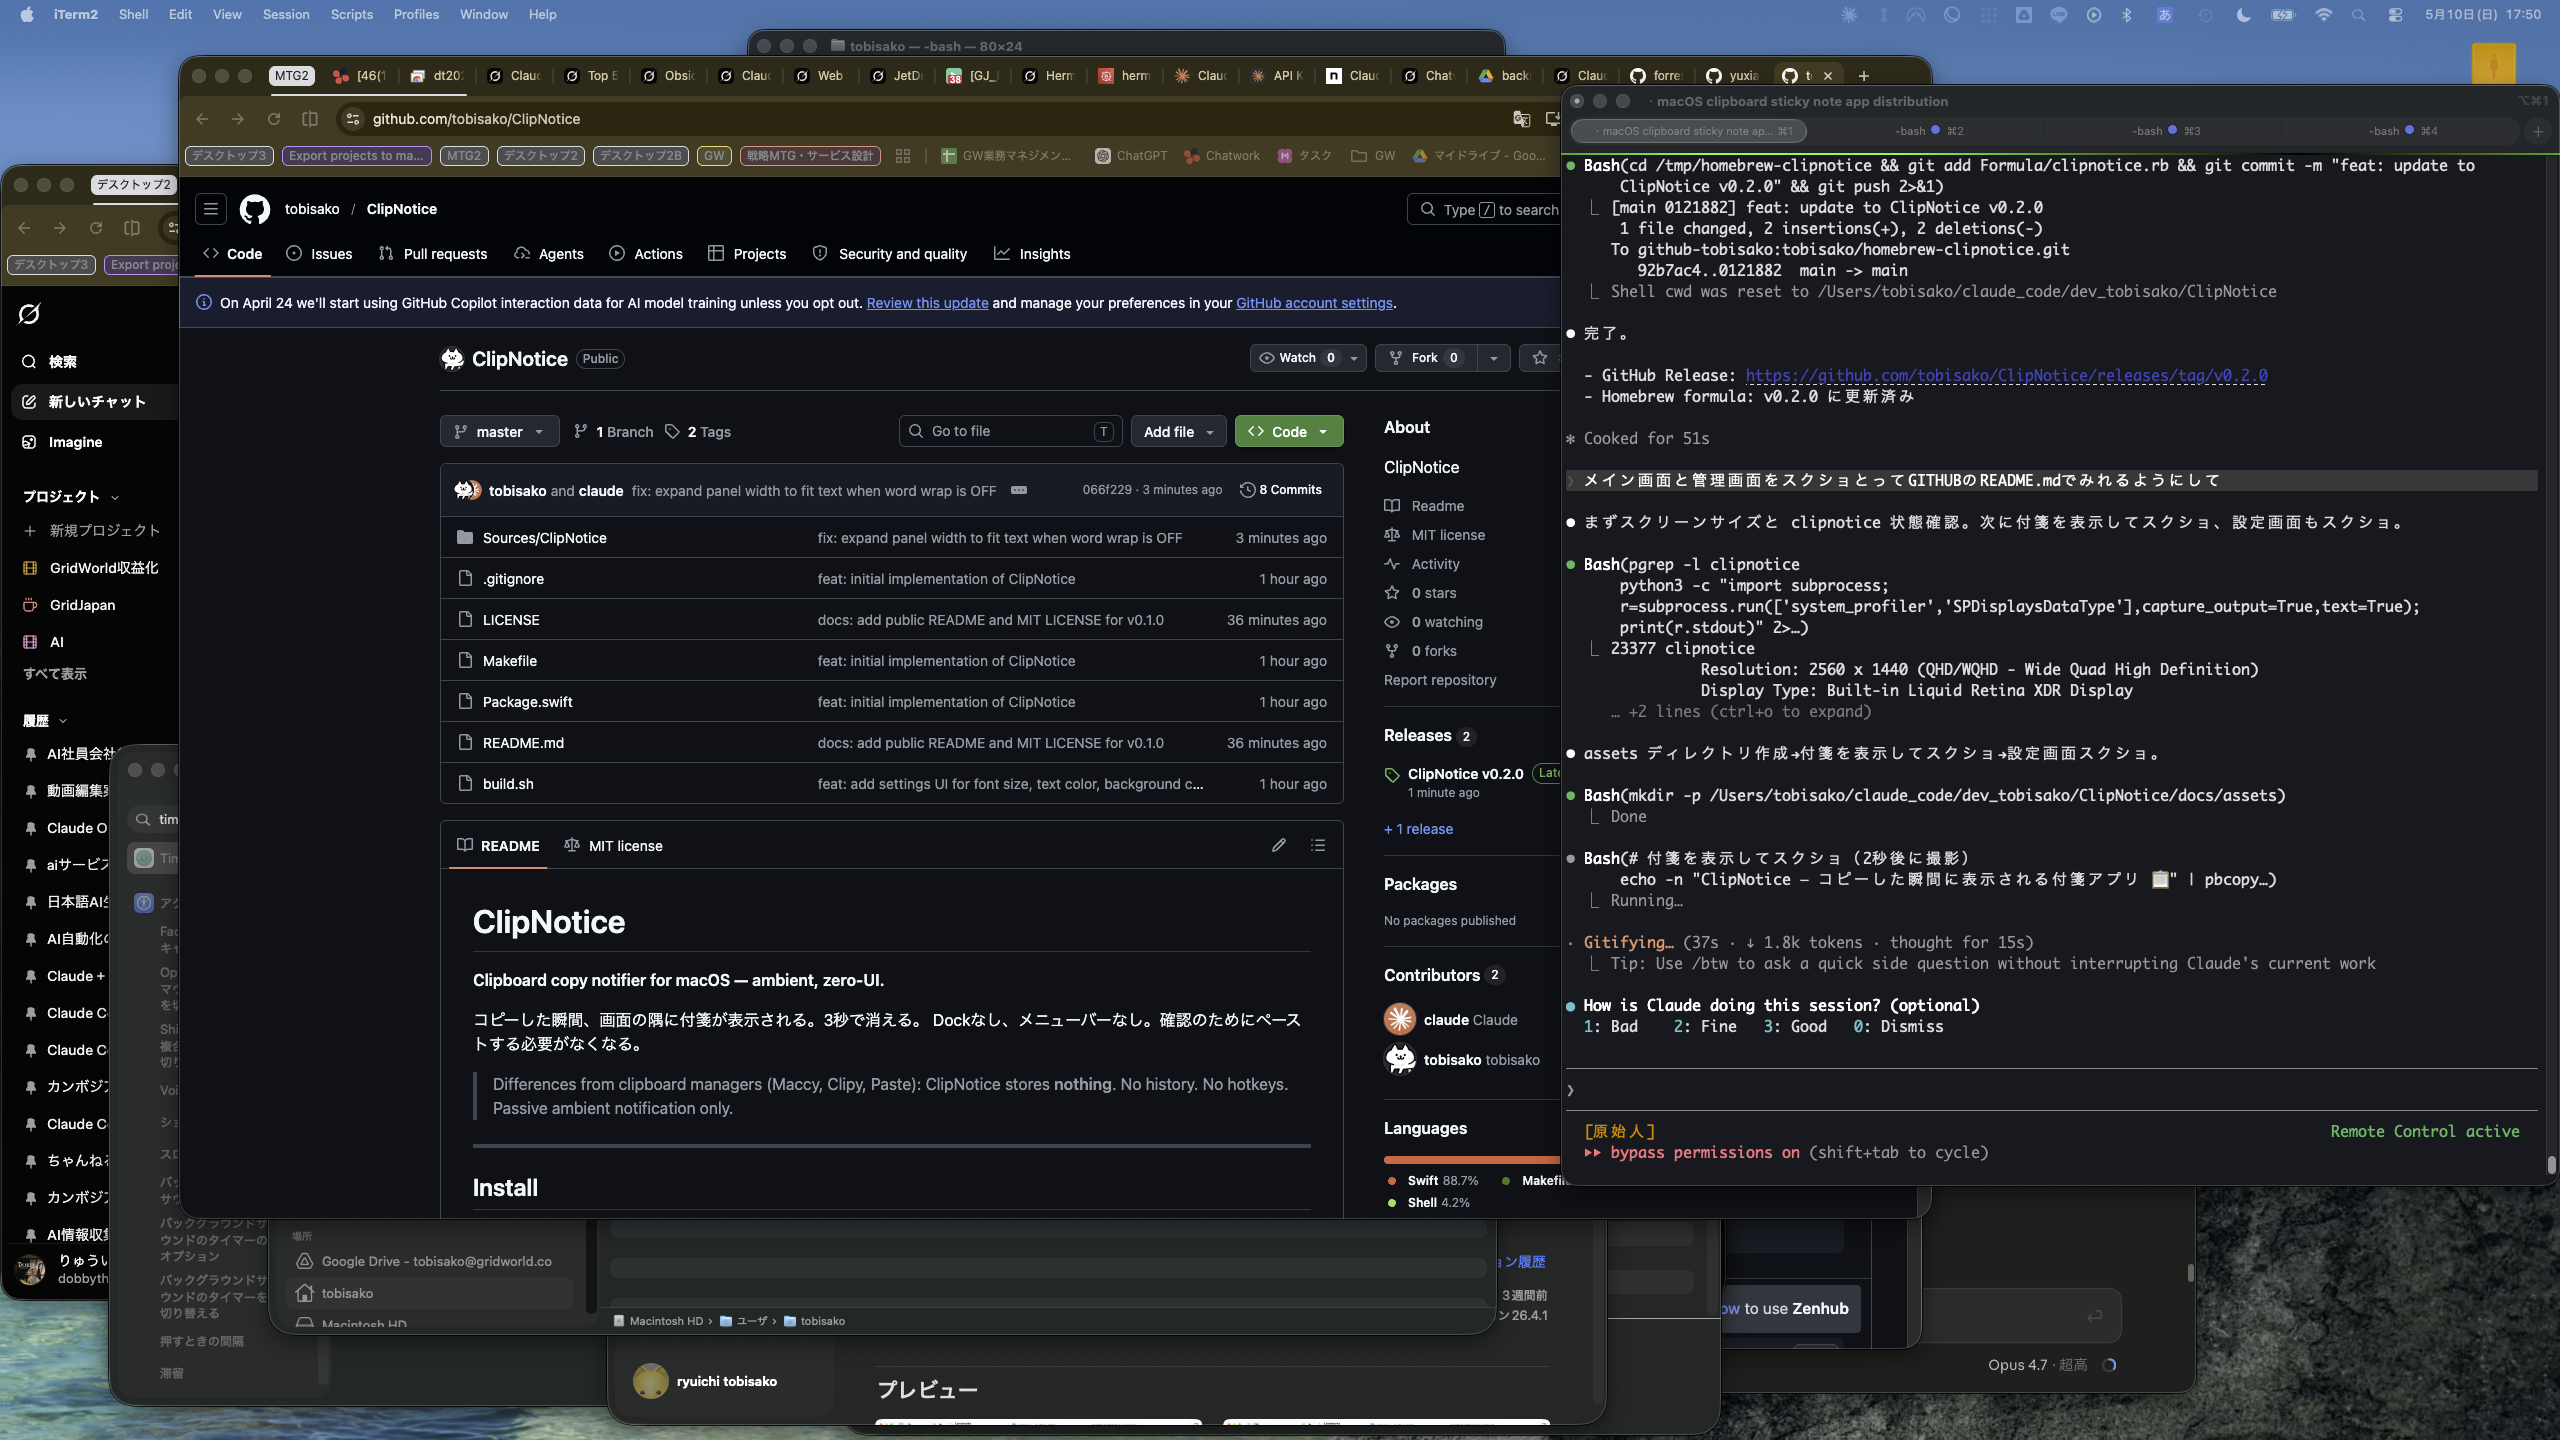
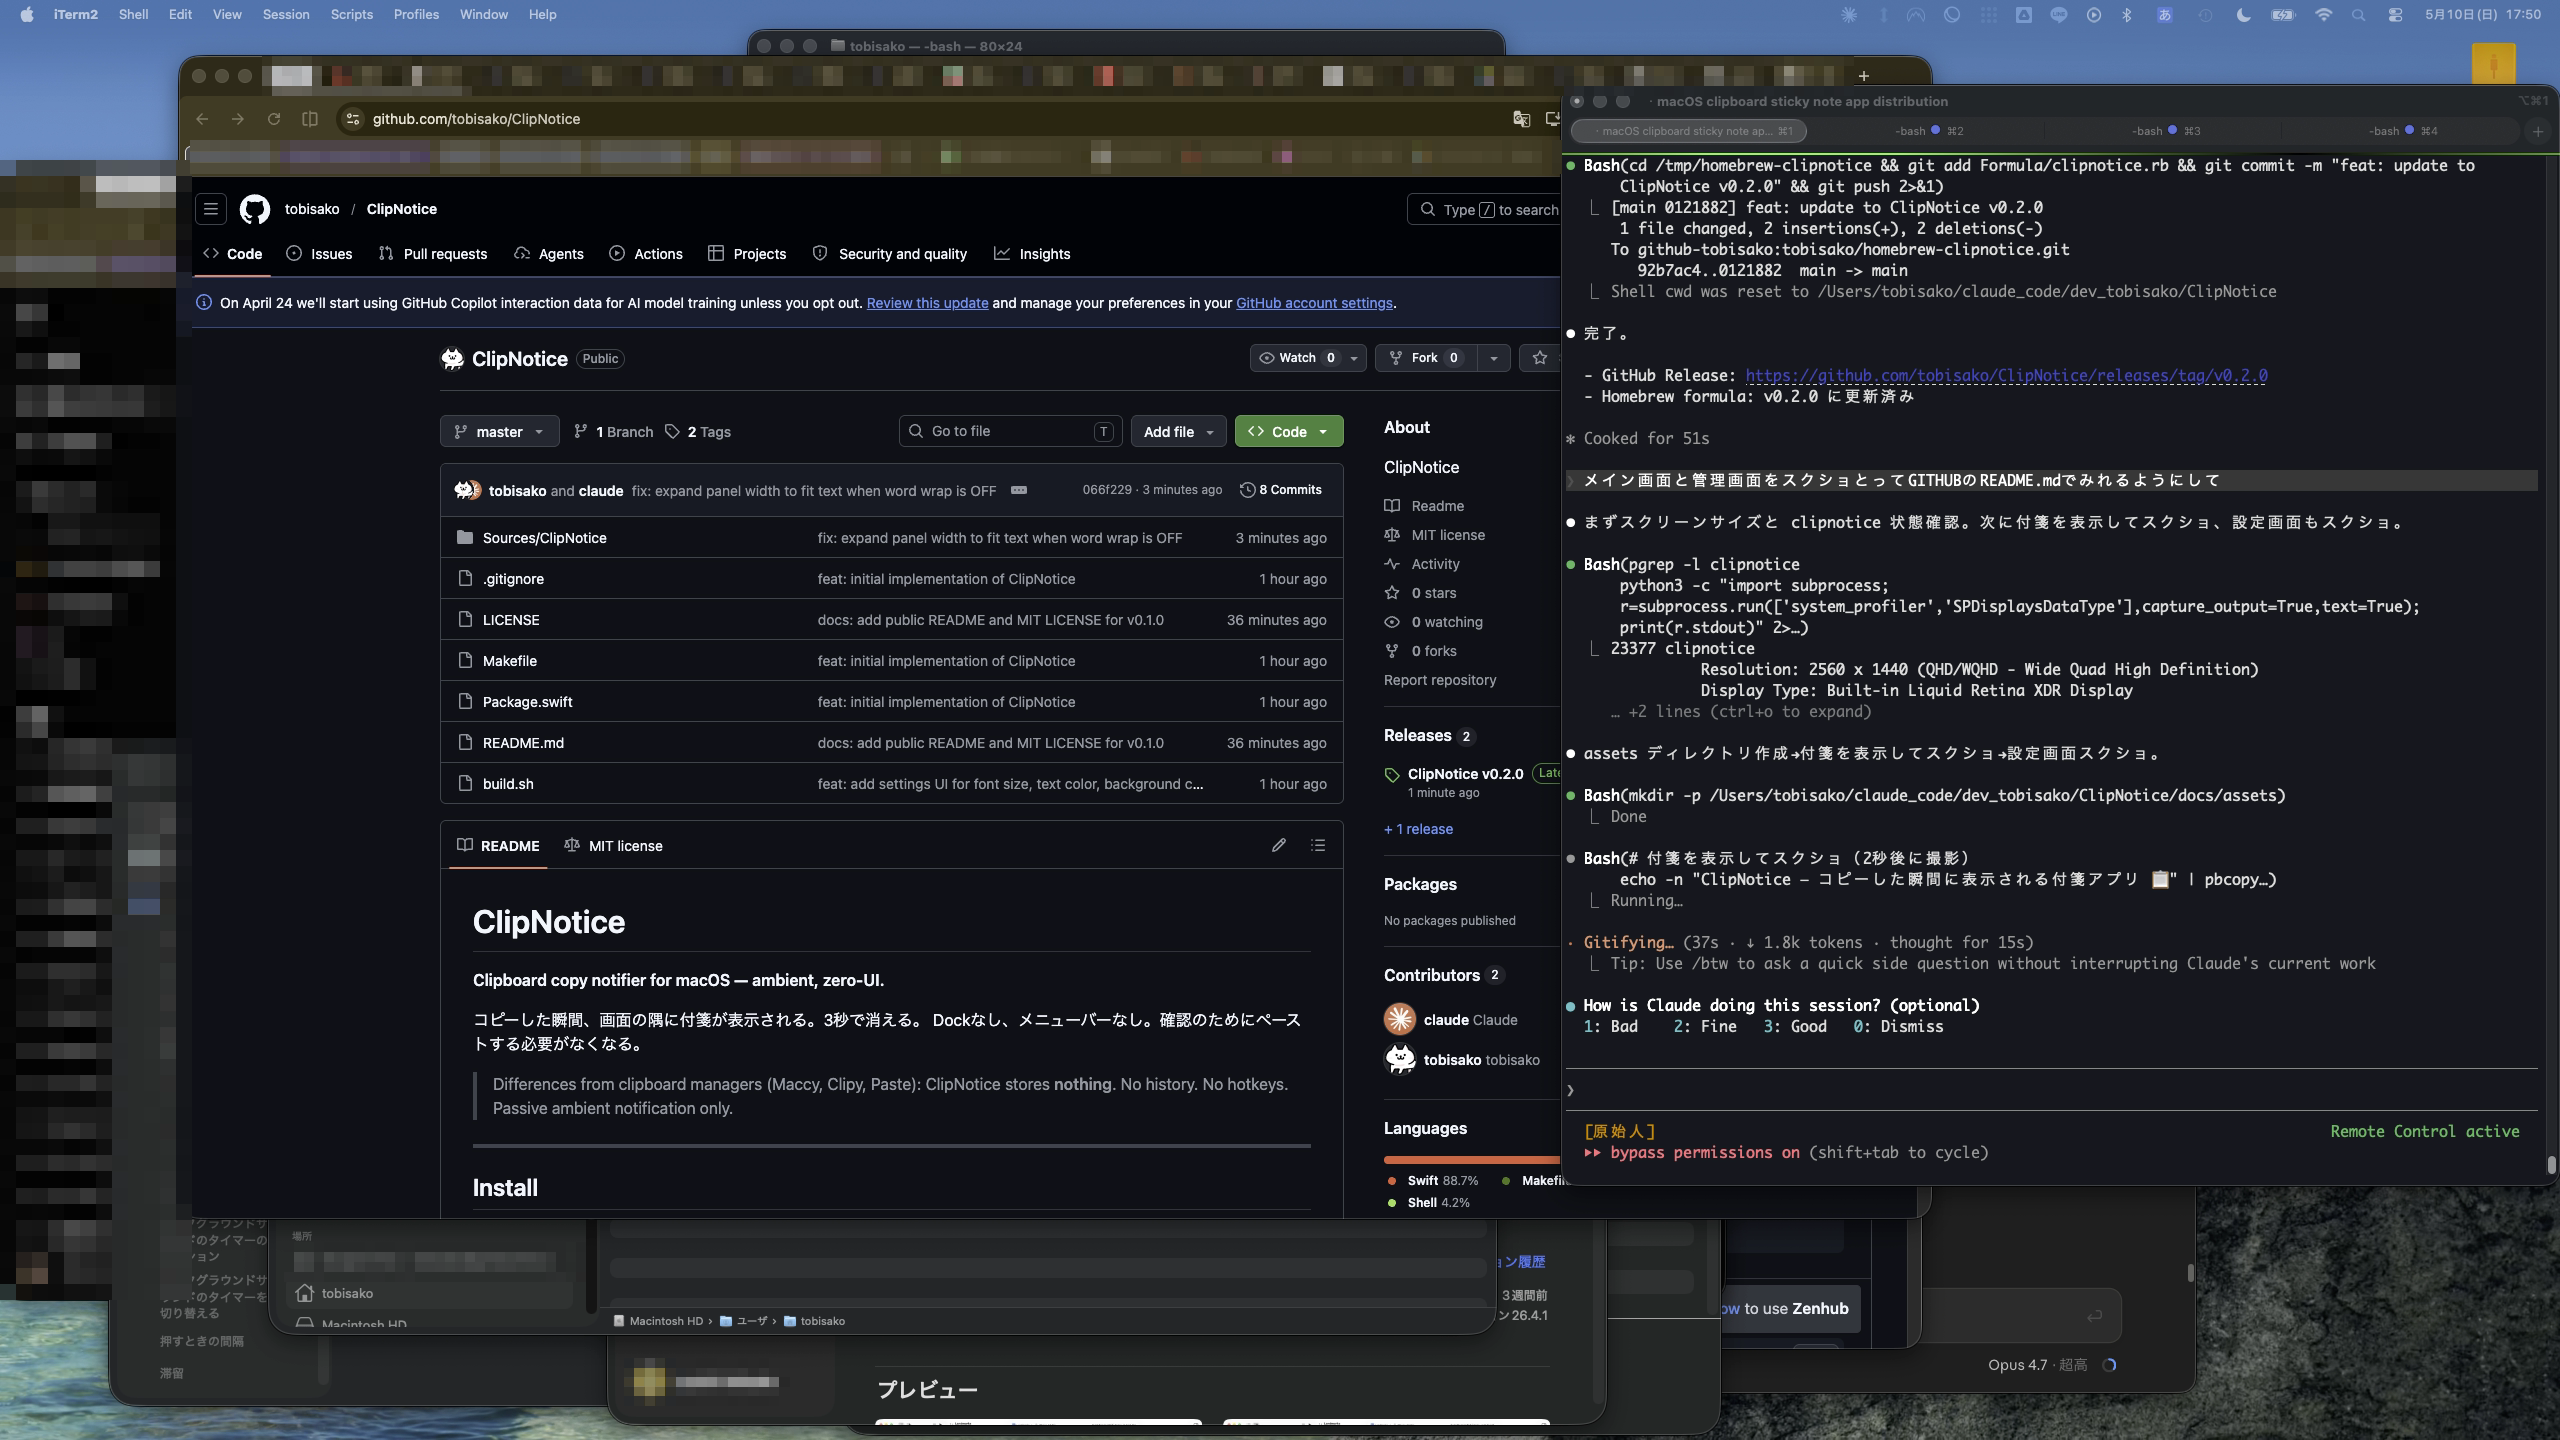
fix: sticky-note.png の写り込みをモザイク処理
デスクトップ全画面のスクショに社内情報が写り込んでいたため、該当箇所のみ
モザイクをかけた（README で参照されているため削除ではなく差し替え）。

処理した箇所:
- 左サイドバー: Claude のプロジェクト名・チャット履歴・アカウント名
- ブックマークバー: 社内ブックマーク名
- タブバー: 社内タブ名
- Google Drive の業務メールアドレス
- フルネーム（GitHub プロフィール上は非公開のため）

主役の GitHub 画面・付箋・ターミナルのビルドログはそのまま残している。

diff --git a/.claude/CLAUDE.md b/.claude/CLAUDE.md
@@ -19,6 +19,10 @@
 実際、既存の履歴には `tobisako <tobisako@gridworld.co>` と**業務メールが混入している**
 （2026-05 のコミット群）。同じ理由で起きたもの。放置すると再発する。
 
+**この履歴を「業務名義で運用する意図」と読んではいけない。** 判定キーはリモートの所有者
+（`github.com/tobisako/*` なら個人）であって、既存署名でもディレクトリでも中身でもない。
+一般ルールは `~/.claude/CLAUDE.md` の「判定キーは『リモートの所有者』」を参照。
+
 ### コミット時（毎回）
 
 グローバル設定に頼らず、明示的に上書きする:
